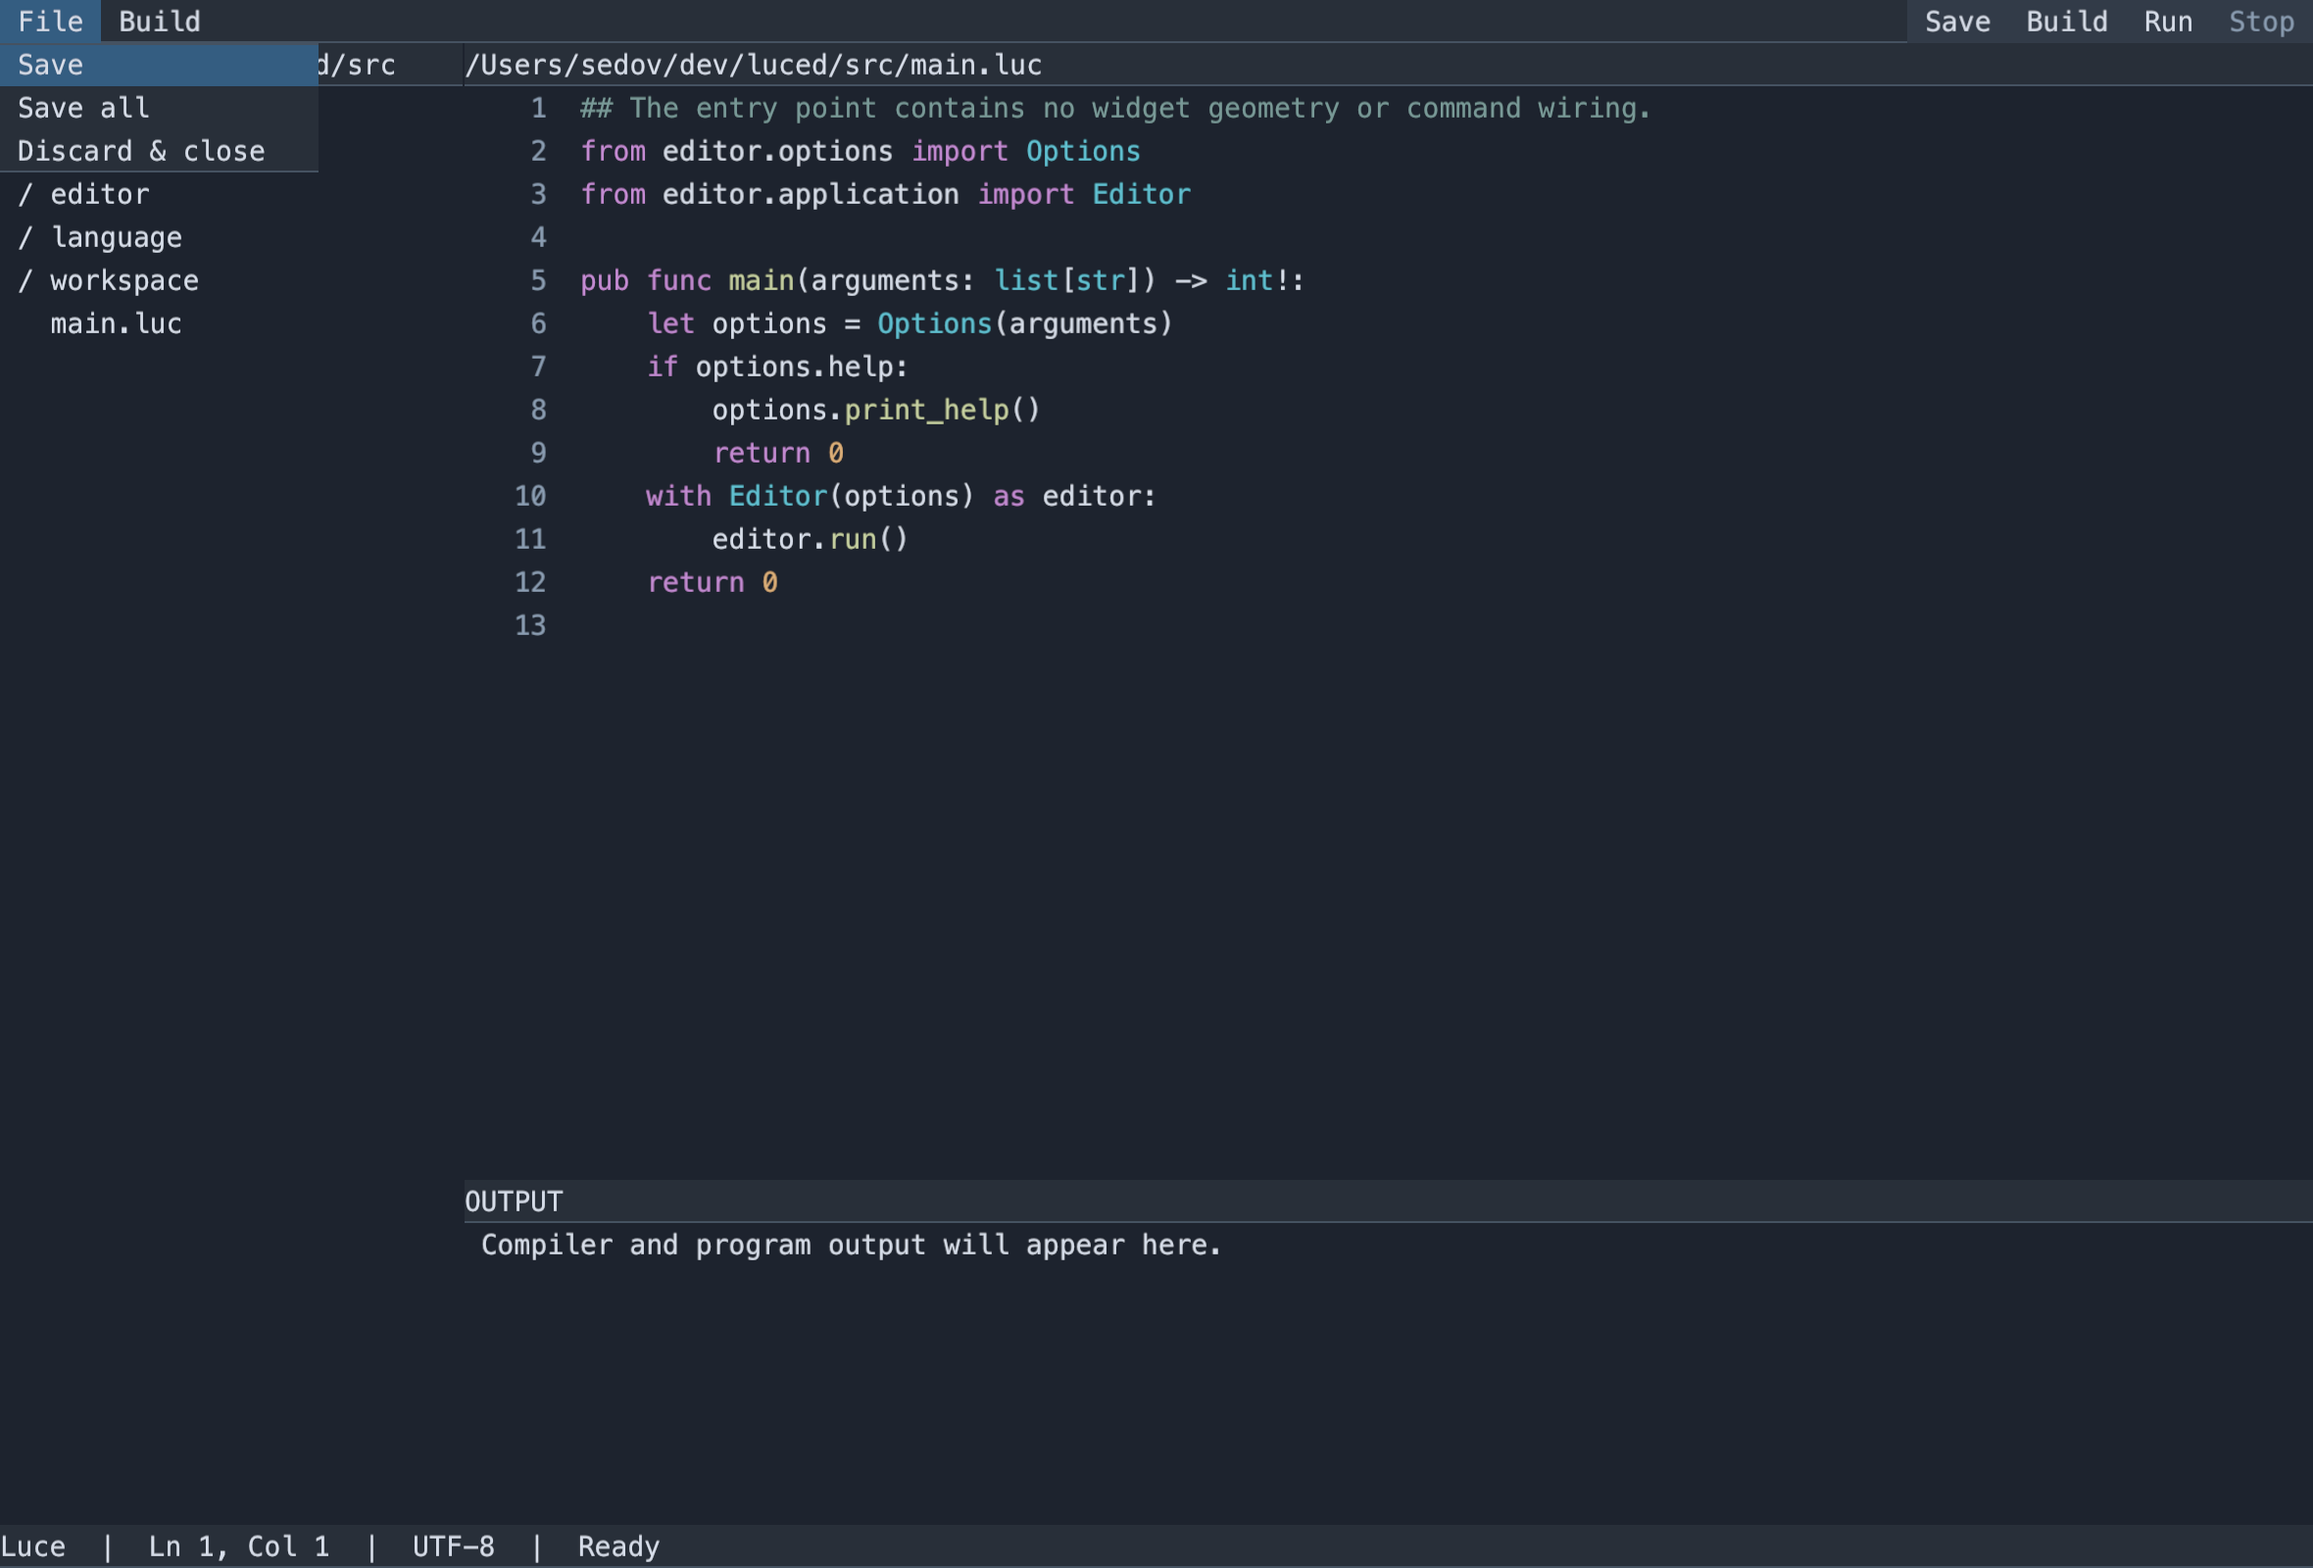
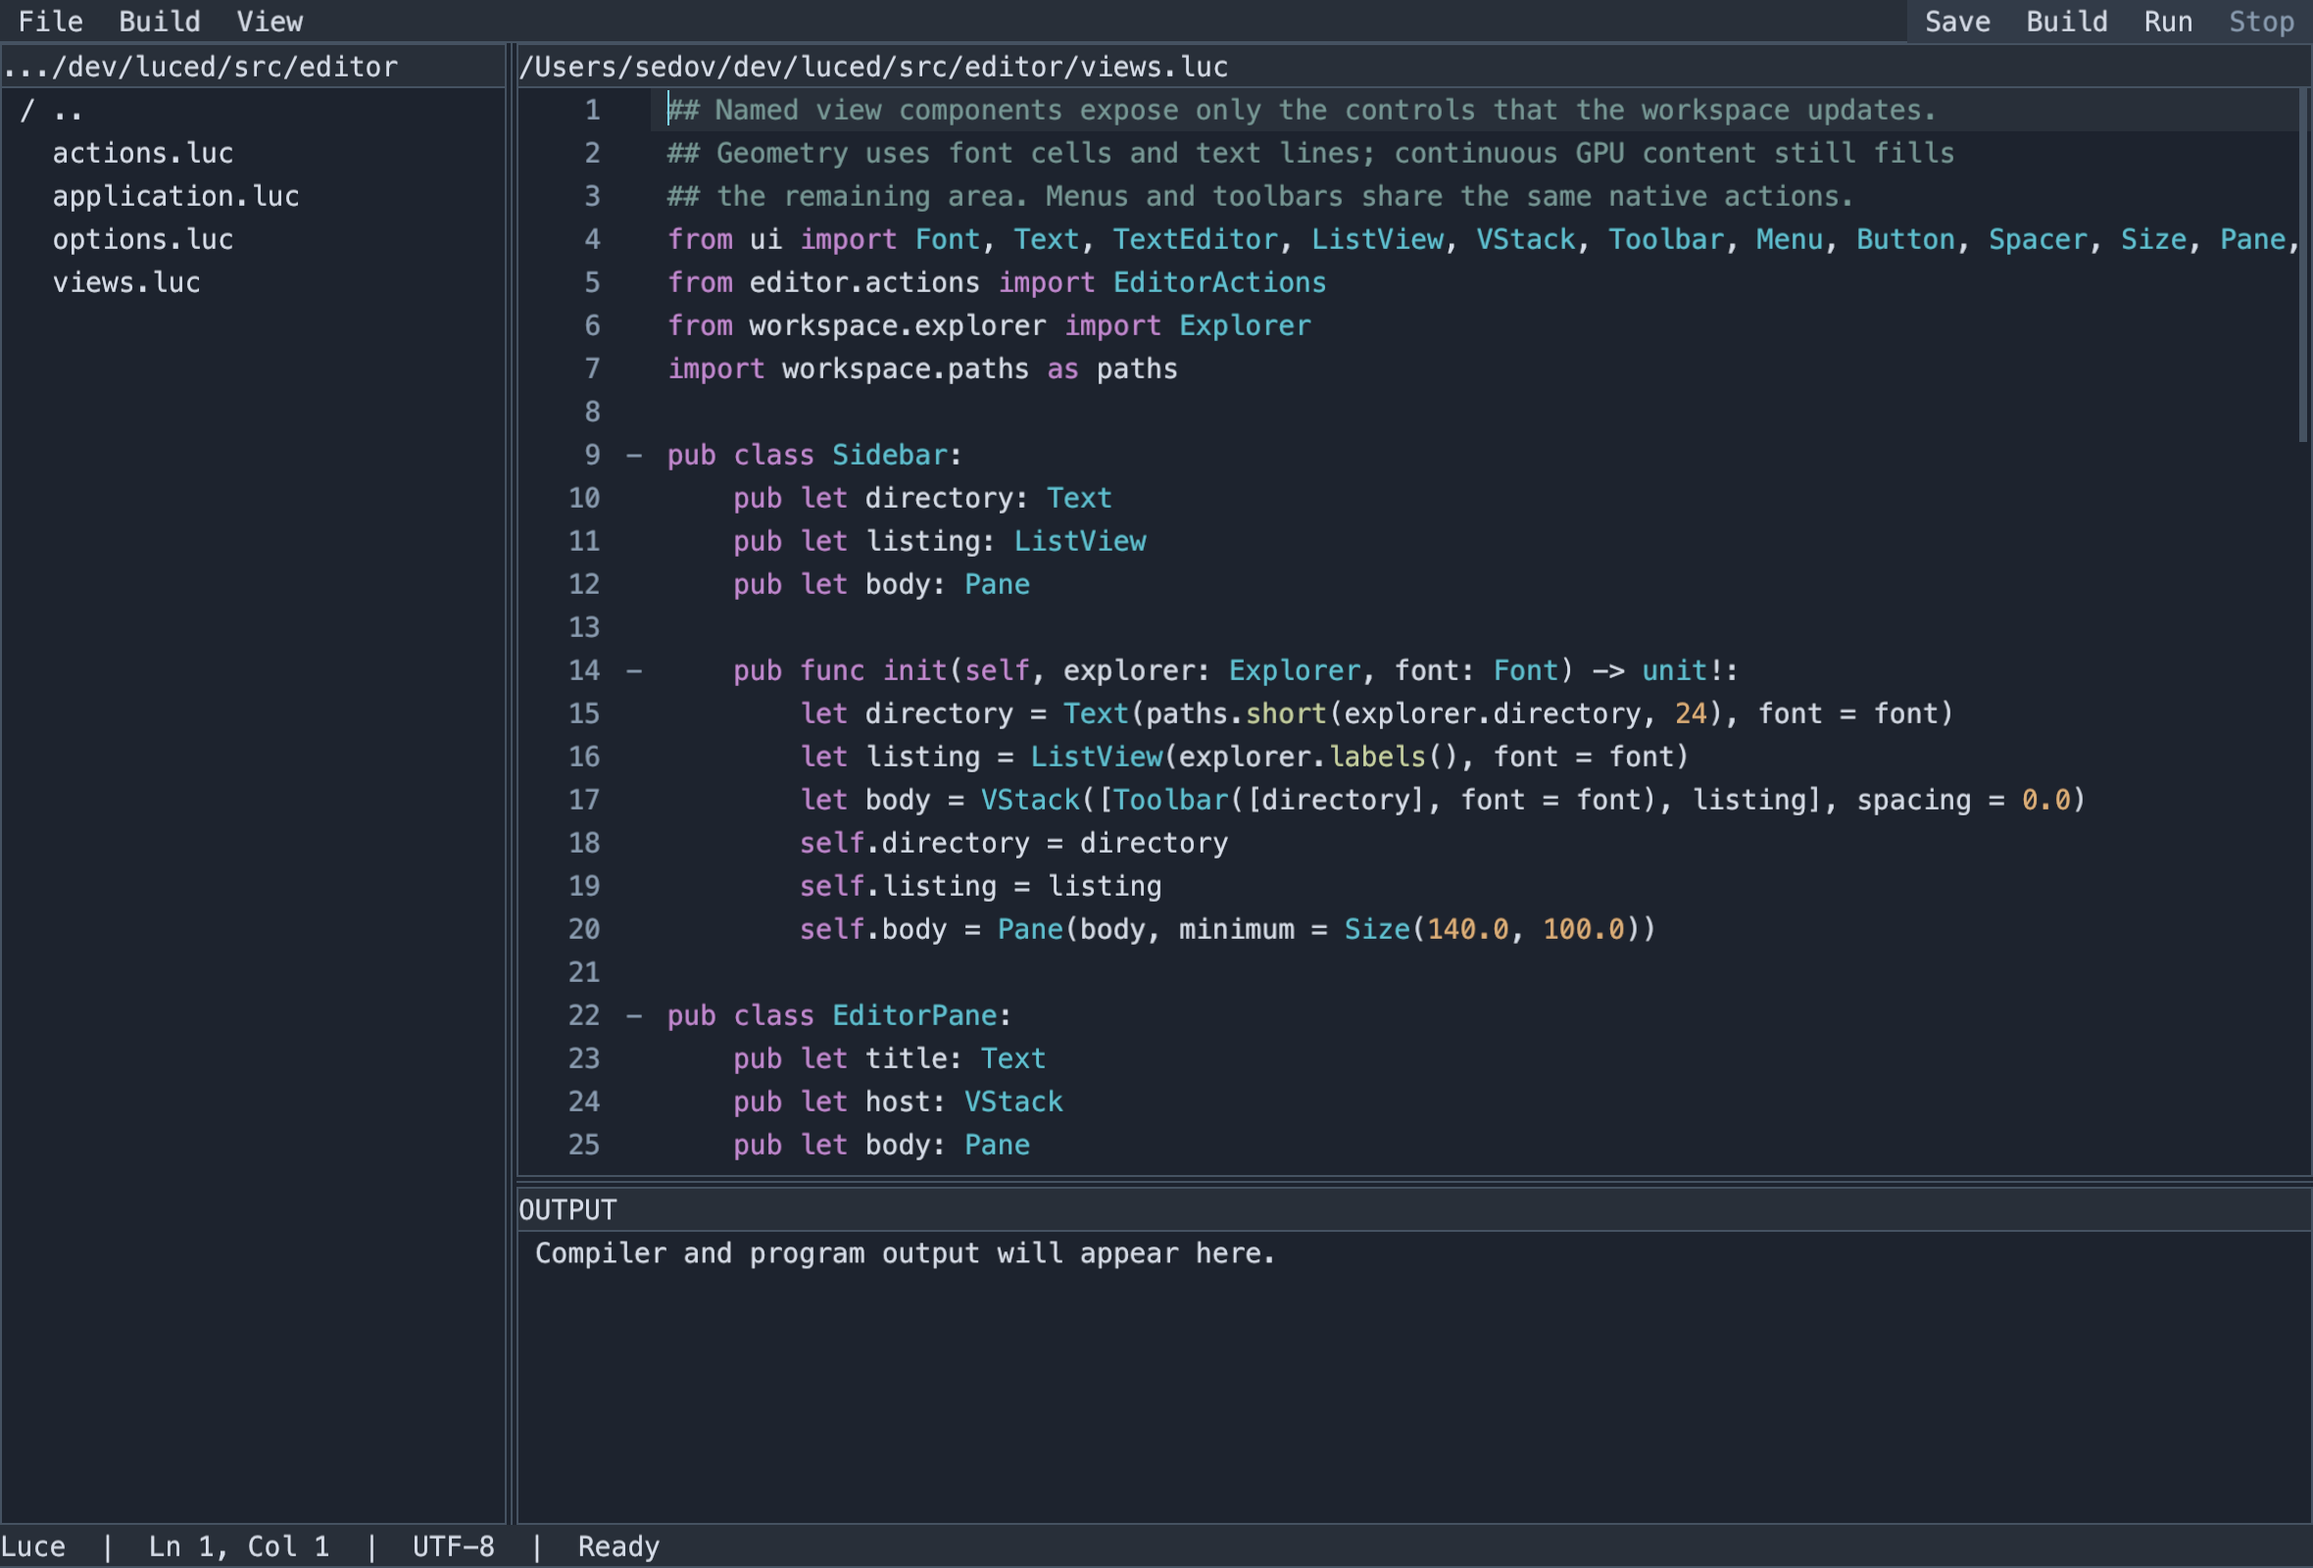
Compose resizable editor panes and add Luce code folding

diff --git a/tools/preview.py b/tools/preview.py
@@ -12,6 +12,7 @@ p = argparse.ArgumentParser(description=__doc__)
 p.add_argument('--base', type=Path, default=ROOT.parent / 'luce-base/build/luce-base')
 p.add_argument('--luce', type=Path, default=ROOT.parent / 'luce/build/luce')
 p.add_argument('--source', type=Path, default=ROOT / 'src/main.luc')
+p.add_argument('--fold', action='store_true', help='capture the selected file with code folded')
 p.add_argument('--menu', action='store_true', help='capture the File popup through keyboard input')
 p.add_argument('--run', action='store_true', help='capture after the selected source builds and runs')
 p.add_argument('--output', type=Path, default=ROOT / 'build/preview.ppm')
@@ -81,11 +82,15 @@ pub func main(arguments: list[str]) -> int!:
 """
     if a.menu:
         source = 'from ui import Event\nfrom input import EventKind, Key\n' + source
-        source = source.replace('        if captured:', '''        if frames == 10:
-            editor.app.dispatch(Event(kind = EventKind.key_down, key = Key.tab, control = true))
-            editor.app.dispatch(Event(kind = EventKind.key_down, key = Key.tab, control = true))
+        source = source.replace('        if captured:', """        if frames == 10:
+            editor.app.dispatch(Event(cancelled = true))
+            editor.app.dispatch(Event(kind = EventKind.key_down, key = Key.tab))
             editor.app.dispatch(Event(kind = EventKind.key_down, key = Key.down))
-        if captured:''')
+        if captured:""")
+    if a.fold:
+        source = source.replace('        if captured:', """        if frames == 10:
+            editor.workspace.fold_all()
+        if captured:""")
     if a.run:
         source += '    editor.workspace.run()\n'
     source += '    editor.app.run()\n    observed.disconnect()\n    probe.save(' + json.dumps(str(a.output.resolve())) + ')\n    probe.end()\n    editor.close()\n    return 0\n'

diff --git a/README.md b/README.md
@@ -2,11 +2,12 @@
 
 A small native code editor written in **Luce**, built with the **luce-ui** Base
 library. It has a file explorer, editable monospace source pane, Luce/Luce Base
-syntax highlighting, and a compiler/program output pane.
+syntax highlighting and folding, and a compiler/program output pane. The three
+panes have themed borders and draggable dividers.
 
 ![luced with compact controls and named view composition](docs/preview.png)
 
-Open files retain their own selection, scrolling, unsaved edits and undo history.
+Open files retain their own selection, scrolling, folds, unsaved edits and undo history.
 Saves replace files atomically, preserve existing permissions and CRLF line
 endings, and refuse to overwrite changes detected on disk. Build and Run use
 cancellable background commands so the UI stays responsive.
@@ -50,6 +51,10 @@ program binaries under the nearest package's `build/` directory.
 | Undo / redo | Cmd/Ctrl+Z / Cmd/Ctrl+Shift+Z; Ctrl+Y also works |
 | Move focus out of the editor | Ctrl+Tab |
 | Scroll | Wheel or touchpad; editor scrollbar also drags |
+| Resize panes | Drag the explorer/code or code/output divider |
+| Resize with keys | Focus a divider, then arrows; Shift moves faster; Home/End reach limits |
+| Toggle a fold | Click its gutter marker; View menu; Cmd/Ctrl+Alt+[ on the header |
+| Fold / unfold all | View menu; Cmd/Ctrl+Alt+Shift+[ / Cmd/Ctrl+Alt+Shift+] |
 
 Closing with unsaved files keeps the window open and shows a status message.
 Save all before closing again, or choose **File → Discard & close** after that message.
@@ -59,11 +64,11 @@ entry point. There is no shell expansion or implicit project task configuration.
 ## Structure and tests
 
 - `src/workspace`: files, documents, navigation and application coordination.
-- `src/language`: a stateful line lexer, incremental highlighting cache and syntax palette.
+- `src/language`: a stateful line lexer, incremental highlighting cache, indentation/string folding and syntax palette.
 - `src/editor`: options, shared actions, named pane views and application lifetime.
 - `src/commands`: asynchronous compiler/program orchestration.
 - `src/main.luc`: parse options, construct the editor, run.
-- `luce-ui`: reusable actions, toolbars, menus, themes, text controls and layout.
+- `luce-ui`: reusable actions, toolbars, menus, themes, panes, splitters and text controls.
 - Base standard library: native text input, clipboard, files and process resources.
 
 ```sh
@@ -71,10 +76,11 @@ python3 tests/run.py
 ./build/luced examples/hello/main.luc --smoke
 # macOS: read back the editor's actual Metal frame in an isolated test build
 python3 tools/preview.py --source examples/hello/main.luc
+python3 tools/preview.py --source src/editor/views.luc --fold
 ```
 
 Tests cover bounded line retokenization, randomized Unicode edits and full-lexer
-equivalence, multiline strings, undo/redo, stale decorations, CRLF persistence,
+equivalence, multiline strings, nested folding across edits, undo/redo, stale decorations, CRLF persistence,
 external-file conflicts, workspace focus, and real native build/run output.
 The UI and standard-library repositories have their own control, ownership,
 input, pixel, file and process regression suites. CI runs on all three hosts.
@@ -84,7 +90,7 @@ output; it is not an interactive PTY shell. Every control shares a 14-point mono
 output. `luce-ui` loads the native face and caches antialiased text at the display
 resolution (Menlo on macOS, Consolas on Windows, system monospace on Linux).
 Font shaping, grapheme navigation, accessibility, richer IME presentation,
-resizable splitters, search, completion, debugging and language-server integration
+search, completion, debugging and language-server integration
 remain future work. Files are bounded to 4 MiB on read and 1,048,576 editor
 scalars; 32 documents may remain open. See [the checklist](docs/PLAN.md) and
 [compiler follow-ups](docs/COMPILER-FOLLOWUPS.md).
@@ -103,3 +109,10 @@ frame. A 1,000-line regression checks that an ordinary edit scans one line.
 
 The [design and checklist](docs/UI-FRAMEWORK.md) records the framework contracts
 and the Qt, SwiftUI, VS Code, Vim and Emacs references behind them.
+
+Pane borders and both dividers are ordinary luce-ui components. Scroll bounds
+follow the longest visible line and visible row count, including after folding
+and resizing. Folding covers indented blocks and multiline strings in both Luce
+and Luce Base. It preserves source offsets, highlights and undo history; opening
+a parent fold restores its children's collapse state. See the
+[pane and folding design](docs/PANES-AND-FOLDING.md).

diff --git a/docs/PANES-AND-FOLDING.md b/docs/PANES-AND-FOLDING.md
@@ -1,0 +1,57 @@
+# Panes, scrolling and folding
+
+- [x] Add a themed Pane border and reusable horizontal/vertical SplitView.
+- [x] Respect pane minima, support live dragging and keyboard resizing, and keep
+      divider behavior in luce-ui rather than application event handlers.
+- [x] Normalize horizontal scrolling direction and clamp both axes to content,
+      including after edits, window resizing and folding.
+- [x] Add generic nested fold ranges and visible-line mapping to TextEditor.
+- [x] Derive Luce/Luce Base folding from indentation and lexer state in luced;
+      preserve fold state across unrelated edits and document switches.
+- [x] Verify interactions, update the preview/docs, commit and push.
+
+Qt's [QSplitter](https://doc.qt.io/qt-6/qsplitter.html) separates draggable handles
+from pane content and constrains movement using pane sizes. Its
+[SplitView](https://doc.qt.io/qt-6/qml-qtquick-controls-splitview.html) similarly
+separates minimum/preferred sizes from handle presentation. Our first SplitView
+composes two children and nests for larger layouts, with live resizing and
+non-collapsing minima. Pane borders remain independent of the splitter.
+
+Folds hide whole document lines below a header. Text and scalar offsets remain
+unchanged; rendering, hit testing, navigation and scroll extents share one visible
+line map. The widget accepts versioned ranges from any language service. Luce's
+indentation and multiline-string rules stay in the editor's language module.
+Entering a hidden position reveals it; explicit selections retain hidden text.
+
+Scroll deltas describe content movement on each axis. The native window layer
+normalizes platform wheel conventions; controls subtract those deltas from their
+viewport offsets. End bounds come from the longest visible line and the number
+of visible rows, with only the padding needed to display the caret.
+
+## Validation
+
+- UI consumers pass native optimization levels 0–3 and both C comparison modes.
+- Splitter tests cover both axes, dragging, keyboard resizing, cancellation,
+  minima/maxima, clipped overflow, border insets, and invalid child replacement.
+- Text tests cover nested folds, gutter clicks, hidden-row navigation, explicit
+  selection, boundary deletion, Unicode/tab widths, folding and resize clamps.
+- Allocation failures preserve the previous fold set and projection without
+  leaks; 300 deterministic edits plus undo/redo match independent complete line
+  scans. The editor's 200 randomized highlighting edits also pass with folding.
+- Editor tests pass at native optimization levels 0 and 2, including unchanged
+  dirty state after folding and one-line retokenization after unrelated edits.
+- Metal pixel tests pass in all six compiler modes with API and shader validation.
+  Unfolded, folded and open-menu editor frames were inspected. The native app
+  build leaves only `build/luced`.
+- Base window contracts pass locally in native/C modes. The Windows wheel
+  contract compiles to native Windows assembly locally; execution belongs to
+  hosted Windows CI. Bootstrap snapshots were refreshed for all three targets.
+
+The regular [preview](preview.png) and [folded view](folding.png) are actual Metal
+captures. Dependency pins record the tested source; hosted Linux/Windows checks
+run on push. Local interactive/rendering verification is macOS.
+
+Windows horizontal wheel signs follow the platform's
+[WM_MOUSEHWHEEL contract](https://learn.microsoft.com/en-us/windows/win32/inputdev/wm-mousehwheel)
+and are normalized at the standard window boundary. UI controls use the same
+content-displacement convention on every backend.
